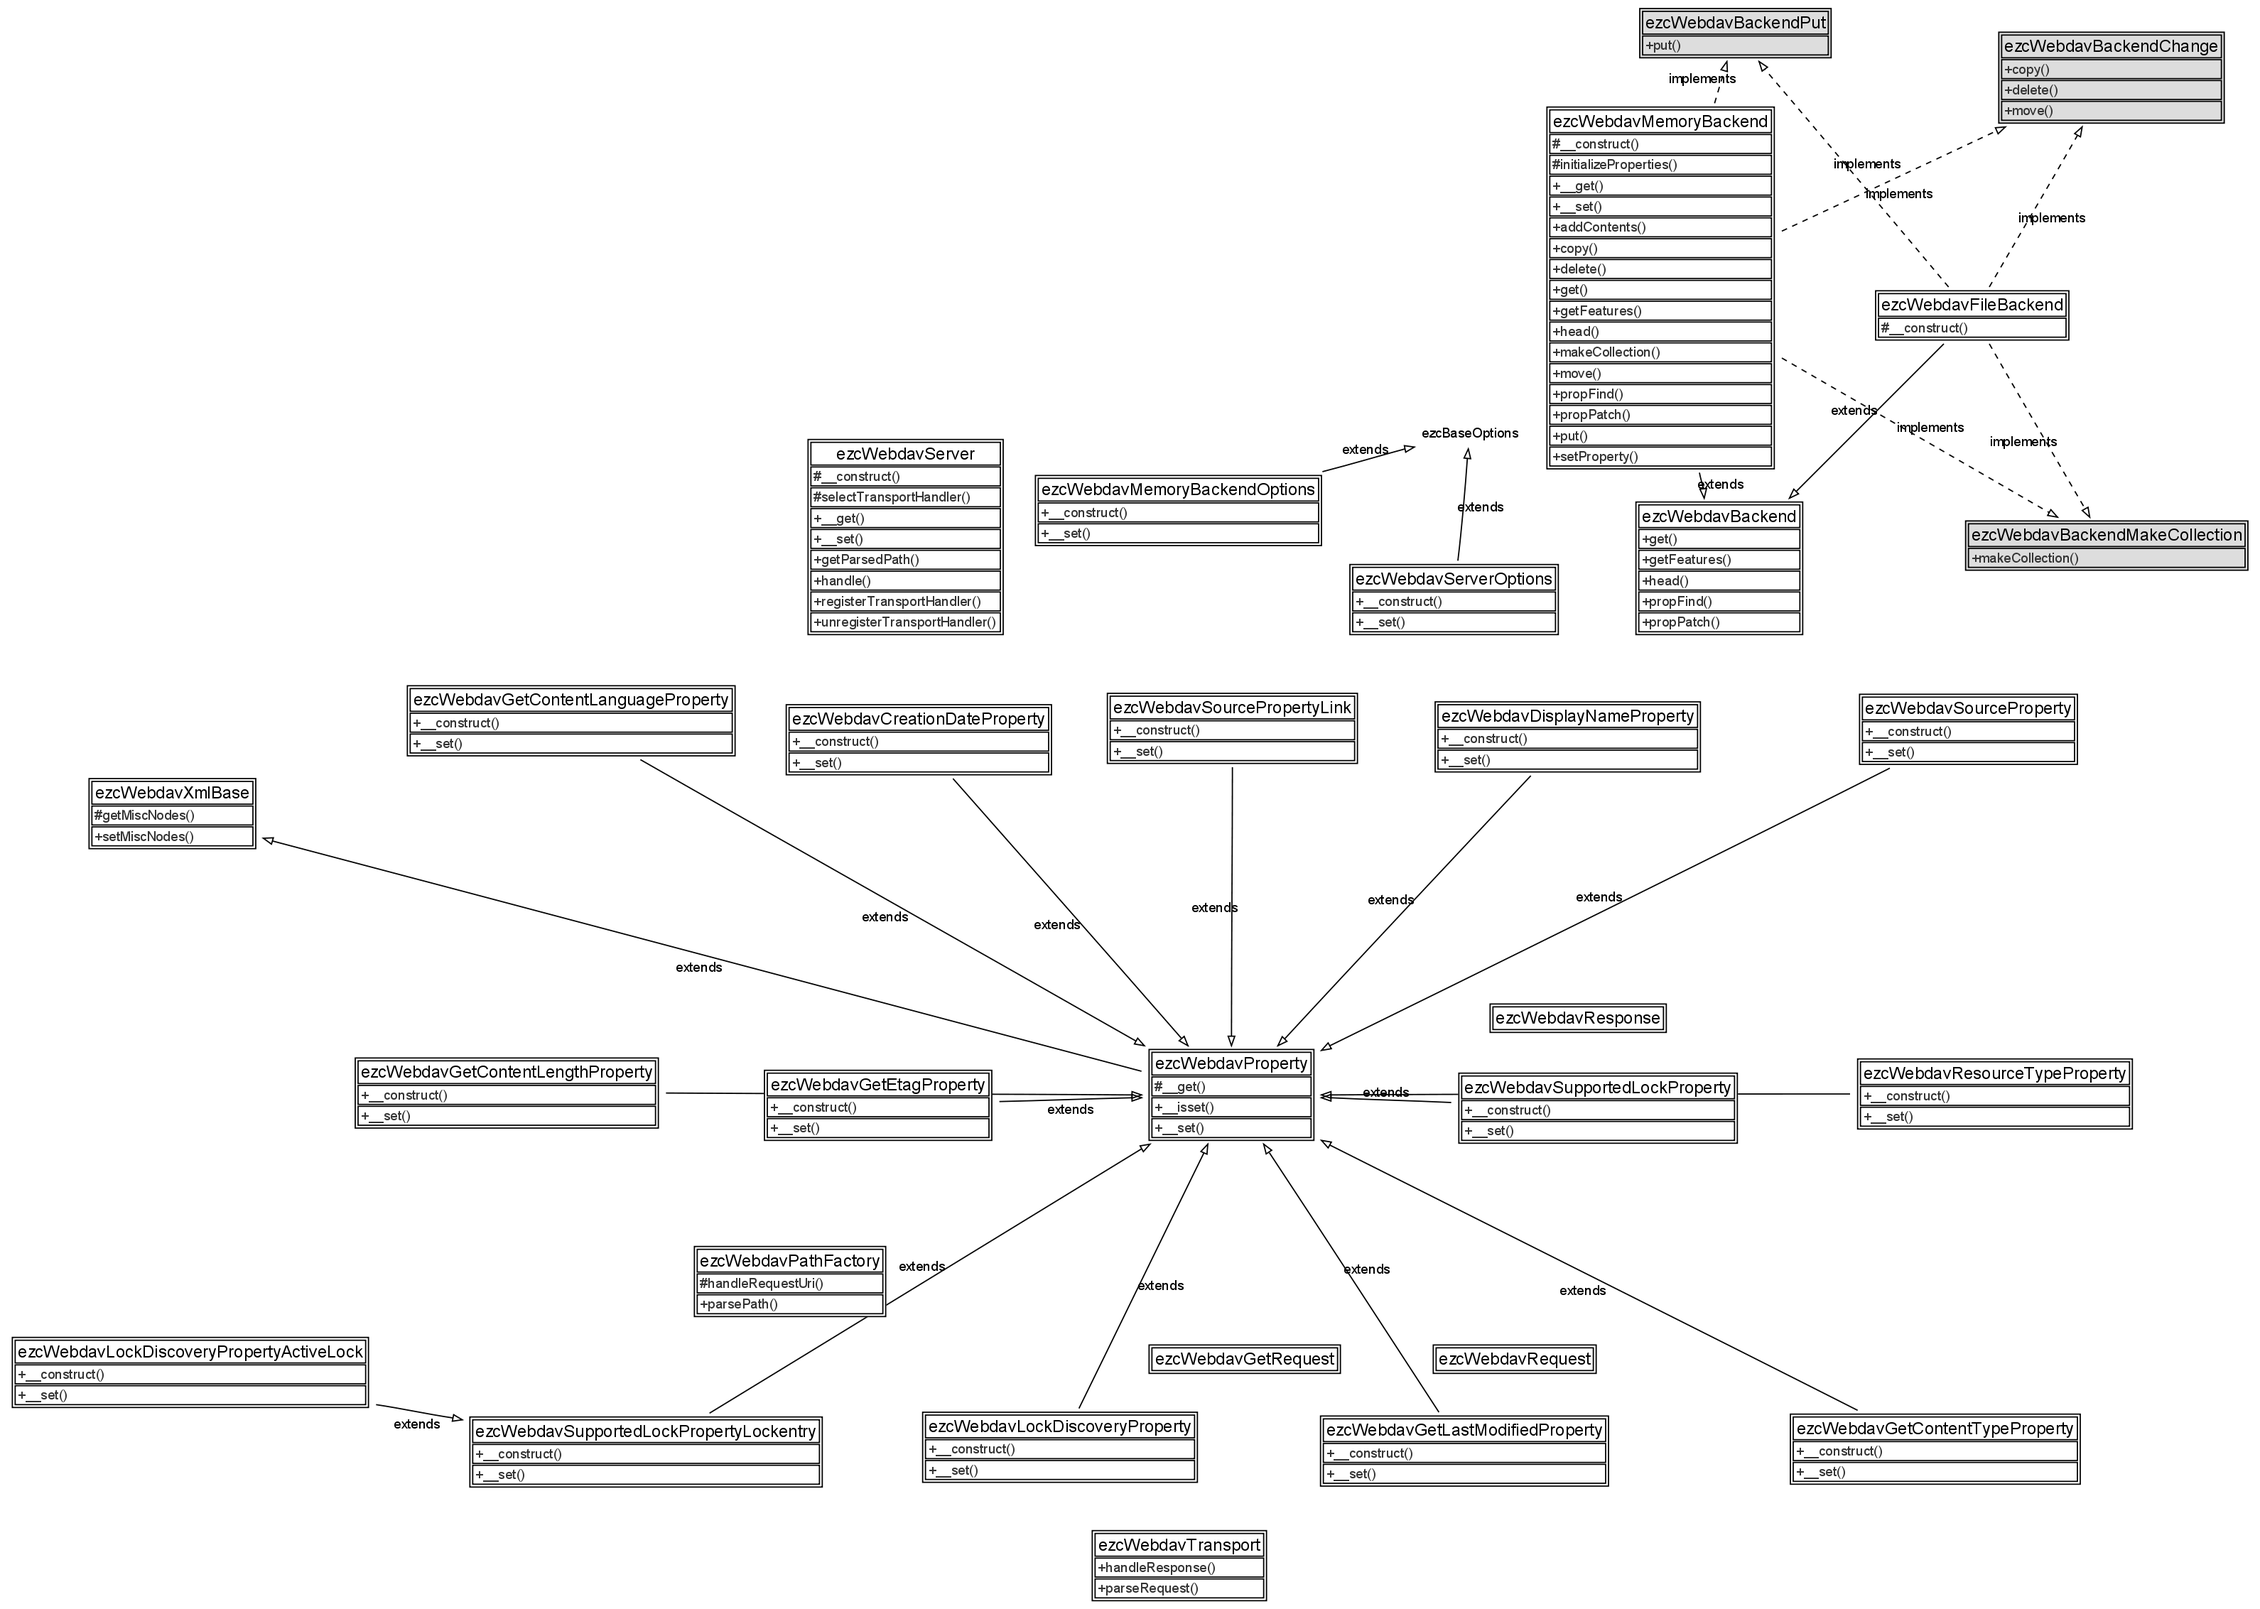
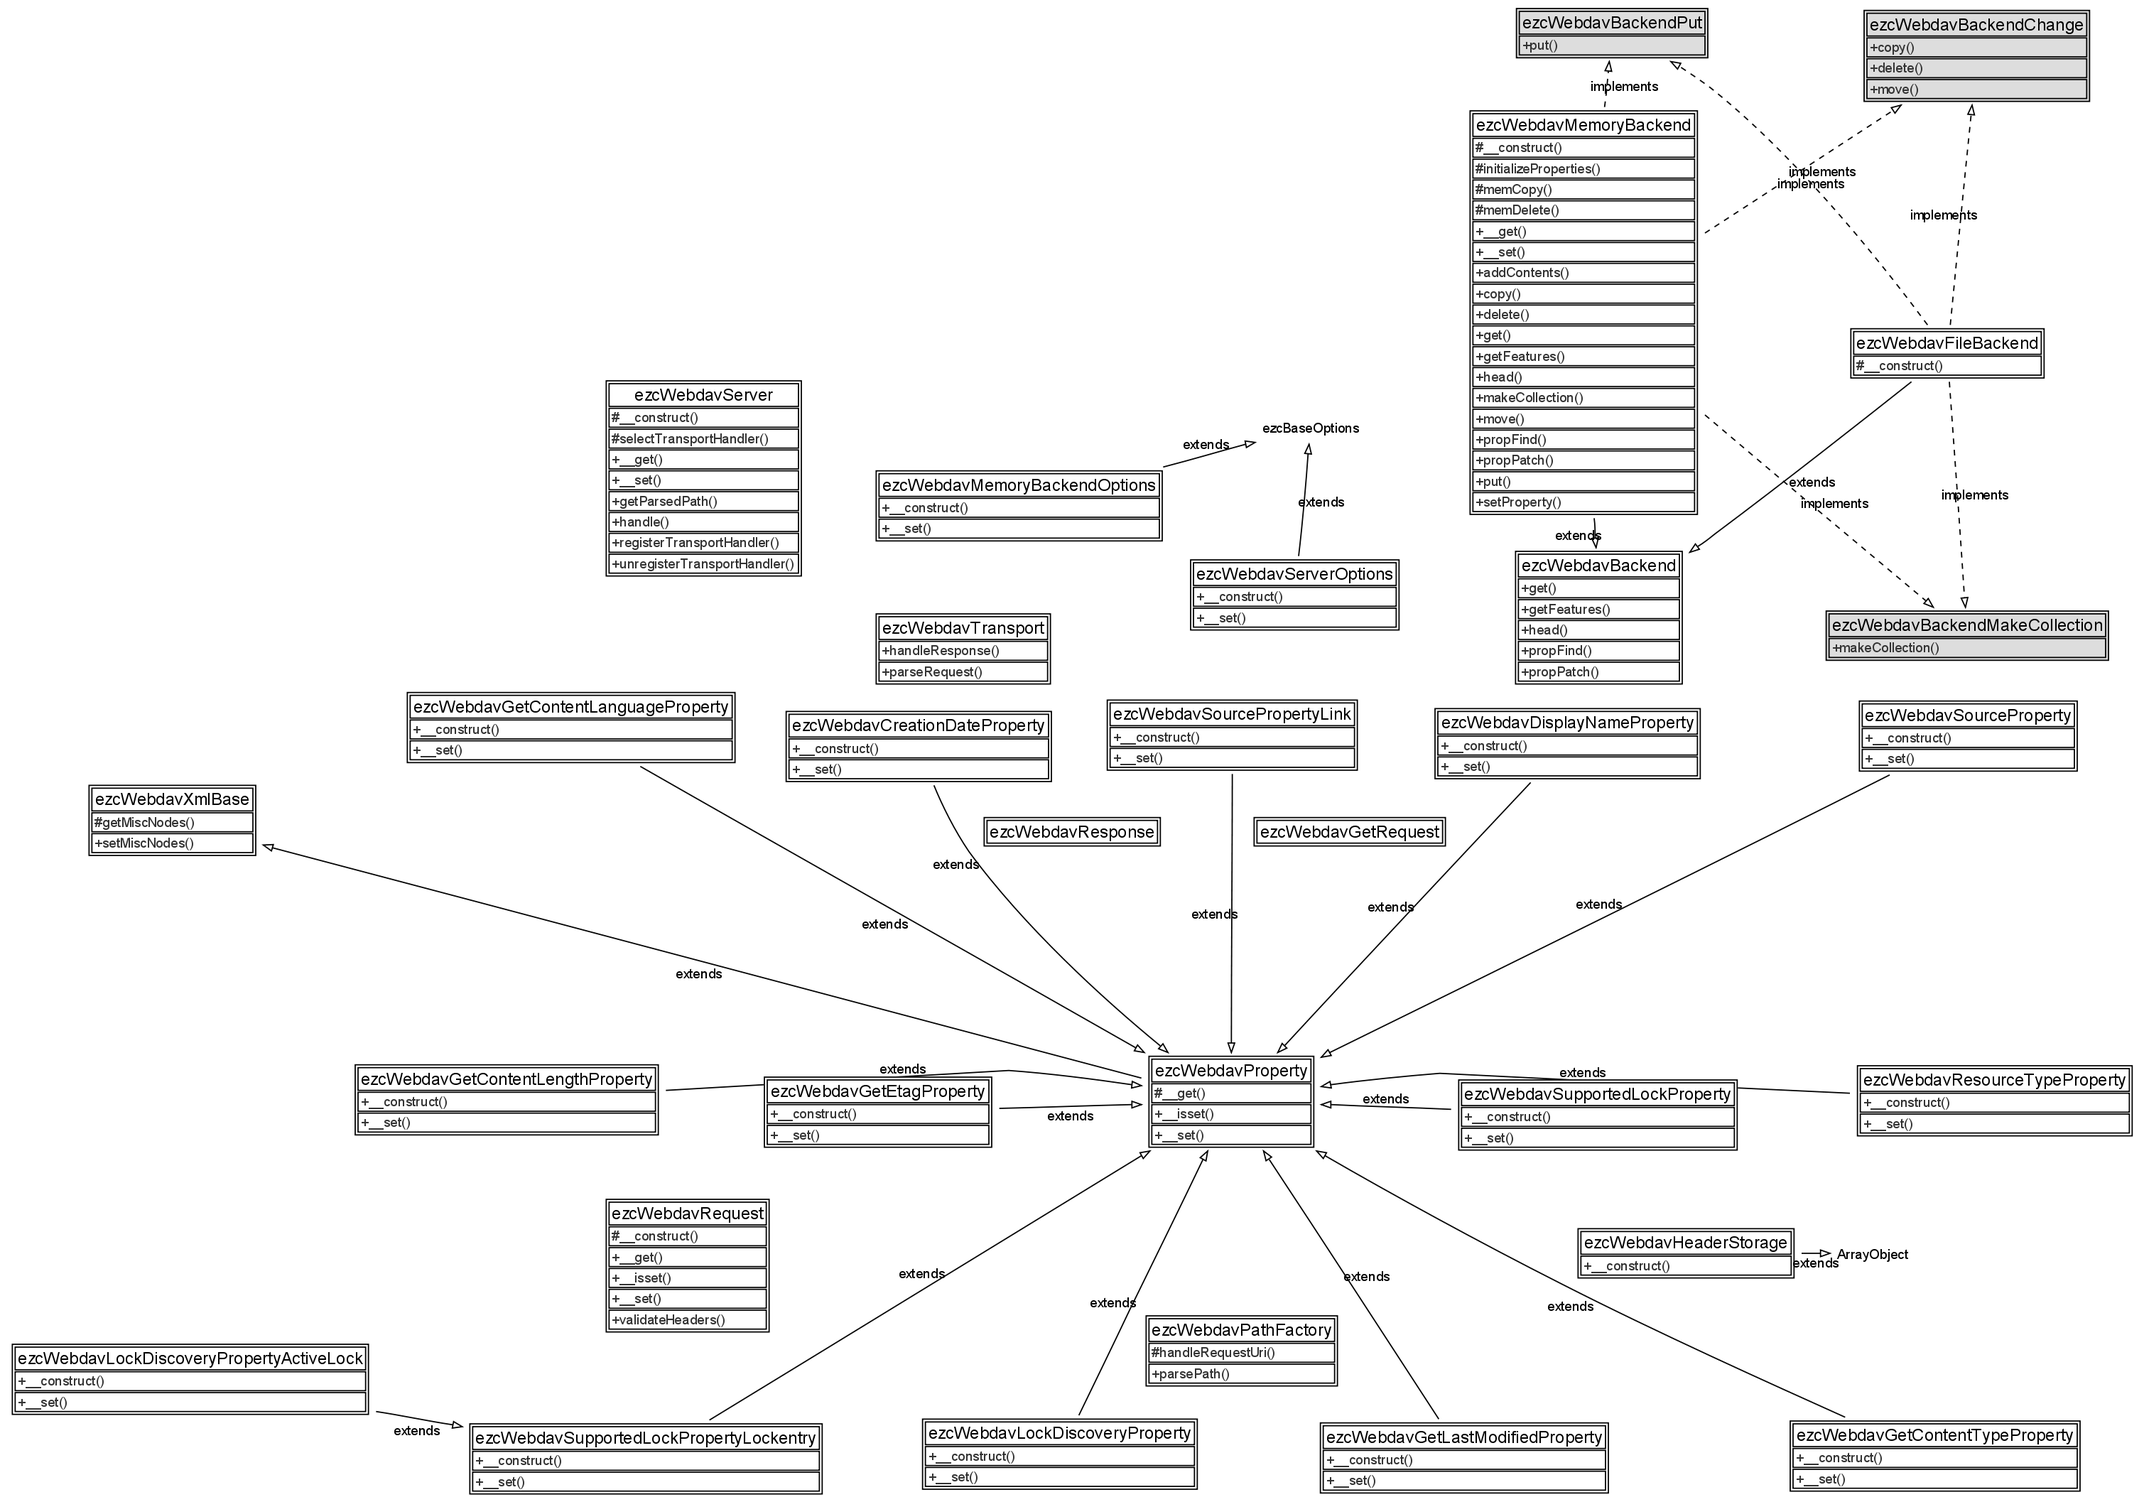
- Updated autoload file.

diff --git a/src/webdav_autoload.php b/src/webdav_autoload.php
@@ -30,12 +30,13 @@ return array(
     'ezcWebdavGetEtagProperty'                 => 'Webdav/properties/getetag.php',
     'ezcWebdavGetLastModifiedProperty'         => 'Webdav/properties/getlastmodified.php',
     'ezcWebdavGetRequest'                      => 'Webdav/request/get.php',
+    'ezcWebdavHeaderStorage'                   => 'Webdav/header_storage.php',
     'ezcWebdavLockDiscoveryProperty'           => 'Webdav/properties/lockdiscovery.php',
     'ezcWebdavLockDiscoveryPropertyActiveLock' => 'Webdav/properties/lockdiscovery_activelock.php',
     'ezcWebdavMemoryBackend'                   => 'Webdav/backend/memory.php',
     'ezcWebdavMemoryBackendOptions'            => 'Webdav/options/backend_memory_options.php',
     'ezcWebdavPathFactory'                     => 'Webdav/path_factory.php',
-    'ezcWebdavRequest'                         => 'Webdav/request.php',
+    'ezcWebdavRequest'                         => 'Webdav/interfaces/request.php',
     'ezcWebdavResourceTypeProperty'            => 'Webdav/properties/resourcetype.php',
     'ezcWebdavResponse'                        => 'Webdav/response.php',
     'ezcWebdavServer'                          => 'Webdav/server.php',
